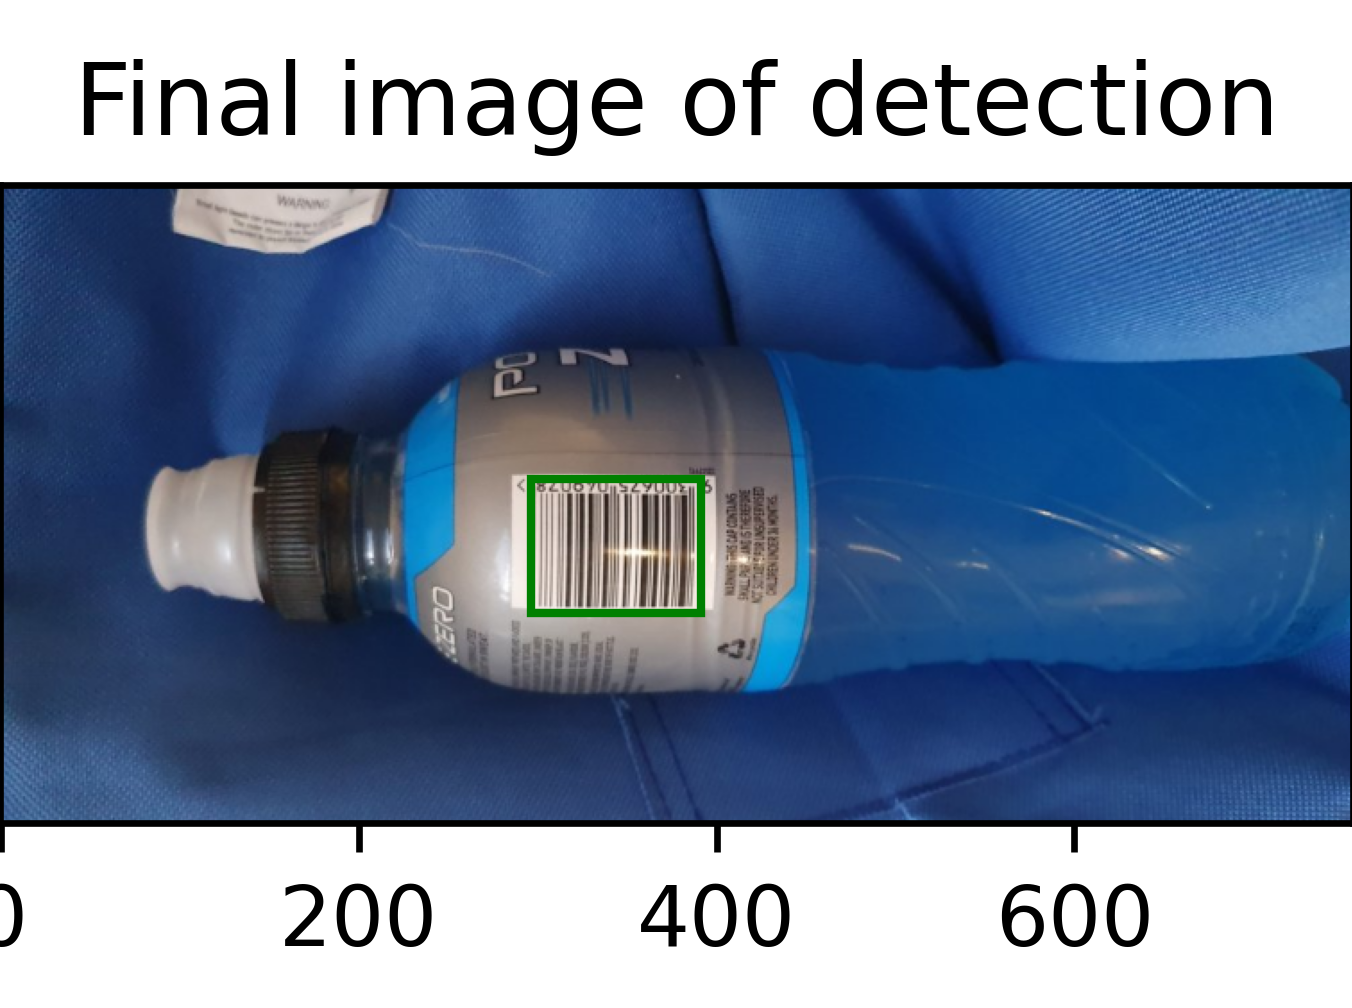
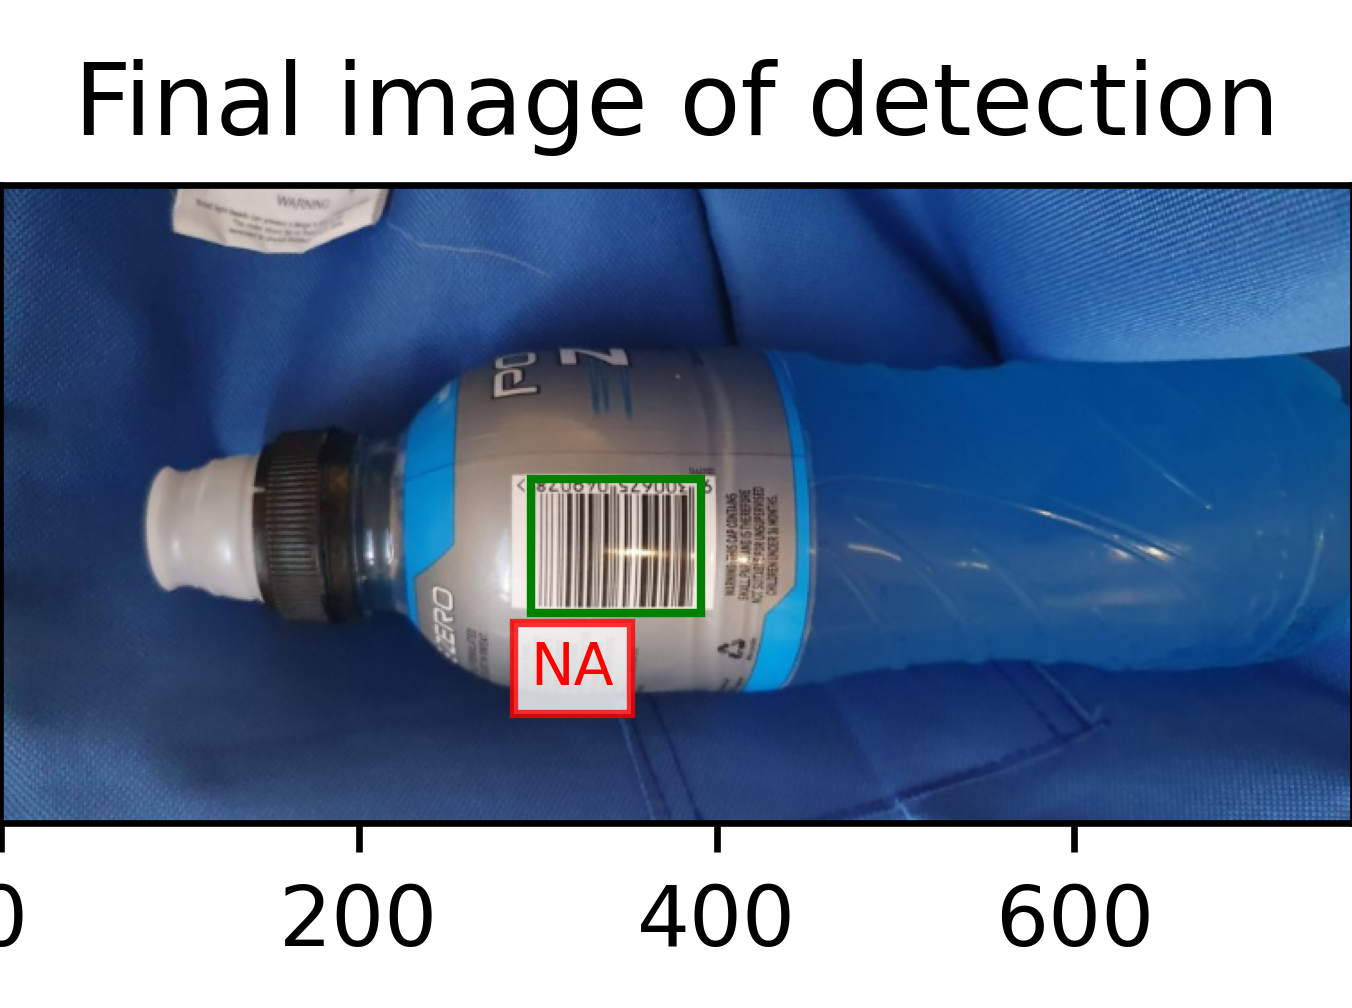
update readme and add error checking

Changed region(s): [[0.3728, 0.6151, 0.497, 0.7381]]

diff --git a/extention.py b/extention.py
@@ -412,7 +412,7 @@ def calc_sobel(greyscaled, image_width, image_height):
 def call_api(code):
     # get api key from env file
     key = os.getenv('API_Key')
-    
+
     url = f"https://product-lookup-by-upc-or-ean.p.rapidapi.com/code/{code}"
 
     headers = {
@@ -462,7 +462,7 @@ def main():
     SHOW_DEBUG_FIGURES = True
 
     # this is the default input image filename
-    filename = "Barcode5"
+    filename = "Barcode6"
     input_filename = "images/"+filename+".png"
 
     if command_line_arguments != []:
@@ -570,10 +570,16 @@ def main():
     LOG("cropped image with padding {pad} applyed}")
 
     # ! take the cropped image and pass it into a barcode scanner
-    barcode_number = decode_barcode(cropped_px_array)
-    predicted_product = call_api(barcode_number)
-
-    
+    try:
+        barcode_number = decode_barcode(cropped_px_array)
+        predicted_product = call_api(barcode_number)
+    except:
+        try:
+            barcode_number = decode_barcode(greyscaled)
+            predicted_product = call_api(barcode_number)
+        except:
+            barcode_number = "error in reading barcode..."
+            predicted_product = ""
 
     fig1, axs1 = pyplot.subplots(2, 2)
     axs1[0, 0].set_title('thresholded image')

diff --git a/README.md b/README.md
@@ -1,3 +1,6 @@
-# CS373_2023_Assignment_Barcode_Detection
+# Barcode detection!
 
-This repository provides a Python 3 code skeleton for the image processing assignment of CompSci 373 in Semester 1, 2023.  This assignment will require you to use what we have studied in the image processing lectures to generate a software that detects barcodes in images of household items.  You will receive 10 marks for solving the barcode detection problem, and there will be an additional component for 5 marks, where you will extend upon the barcode detection in a separate file, and write a short reflective report about your extension.
+### setup
+- install requirements into venv with pip install -r requirements.txt 
+- gain api key from RapidAPI and place inside local envroment file (.env)
+- run code...
